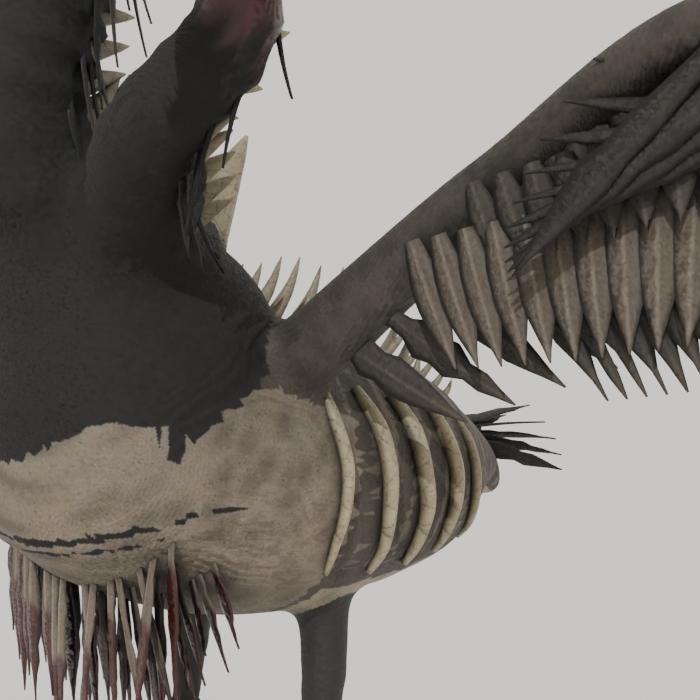
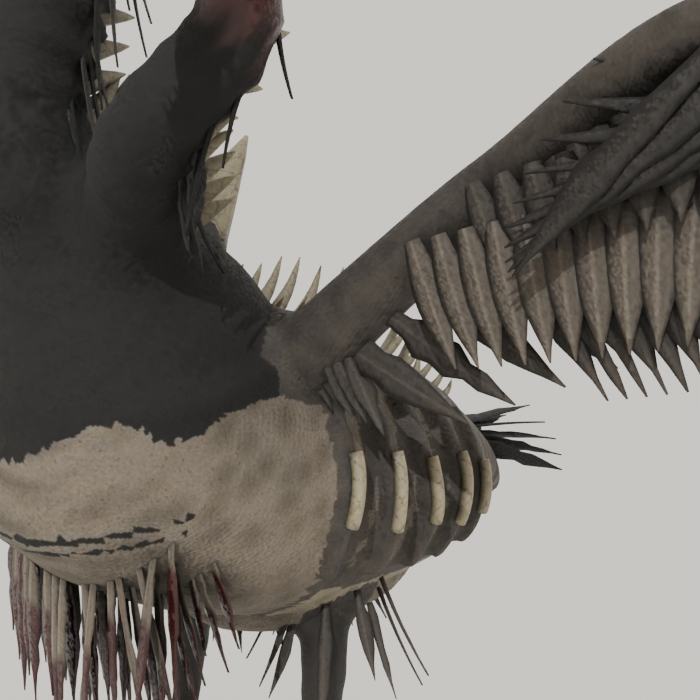
docs: goose v2 form renders, review sheet and docs
Refs #19, #30

Committed by AJ's agent

diff --git a/docs/art/reviews/goose-v2-form/render_form.py b/docs/art/reviews/goose-v2-form/render_form.py
@@ -1,0 +1,22 @@
+# Close-ups of the #19 form on the textured goose_v2, from the throwaway test's cameras.
+# usage: python3.11 render_form.py OUTDIR   (run from the repo root)
+import bpy, math, sys
+from mathutils import Vector
+out = sys.argv[-1]
+bpy.ops.wm.open_mainfile(filepath="art/goose/goose_v2.blend")
+sc = bpy.context.scene; sc.render.engine = "CYCLES"; sc.cycles.samples = 24; sc.cycles.device = "CPU"
+sc.render.resolution_x = sc.render.resolution_y = 700
+w = bpy.data.worlds.new("w"); sc.world = w; w.use_nodes = True
+w.node_tree.nodes["Background"].inputs[0].default_value = (0.9, 0.87, 0.8, 1)
+w.node_tree.nodes["Background"].inputs[1].default_value = 1.2
+sun = bpy.data.objects.new("sun", bpy.data.lights.new("sun", "SUN")); sc.collection.objects.link(sun)
+sun.rotation_euler = (math.radians(50), 0, math.radians(30)); sun.data.energy = 3
+cam = bpy.data.objects.new("cam", bpy.data.cameras.new("cam")); sc.collection.objects.link(cam); sc.camera = cam
+cam.data.lens = 50
+def shot(name, target, loc):
+    cam.location = Vector(loc); d = Vector(target) - cam.location
+    cam.rotation_euler = d.to_track_quat("-Z", "Y").to_euler()
+    sc.render.filepath = f"{out}/{name}.png"; bpy.ops.render.render(write_still=True)
+shot("chest_front", (0, -1.0, 2.4), (1.6, -5.6, 2.9))
+shot("flank_side", (0.3, 0.0, 1.9), (4.8, -0.6, 2.2))
+shot("hip", (0.5, 0.1, 1.3), (3.2, -2.4, 1.2))

diff --git a/docs/4-systems/goose-build.md b/docs/4-systems/goose-build.md
@@ -60,5 +60,14 @@ main neck and 12 on each side neck, each a ridge under the skin (strongest along
 bone spike tearing out of it, in place of version 1's 13 neck spikes. #21 rigs one bone per
 vertebra.
 
+Form (#19, design `docs/plans/2026-10-25-goose-v2-form.html`, approved 1B 2A): a `v2.design.form`
+block adds breast, shoulder and thigh muscle, a sagging belly and three folds at the neck root as
+parts marked `fuse`, which `build_goose.py --v2` melts into the skin alongside `v2.skin.parts`;
+`goose_skin.fuse` smooths only where the listed parts meet, so the muscle keeps its shape. With
+`v2.design.ribs`, `body_ribs` turns each rib into a fused ridge and lifts its middle third out as
+bare bone (`bone_lift`). `v2.design.legs.scutes` false drops the shank rings. The form block also
+adds 22 hackles at the neck root, 9 coverts per shoulder and 13 feathers per thigh, from its own
+random seed so the other parts' feathers do not change.
+
 Brand: `goose_texture.bake(..., version=)` takes its decal from that version's parts; version 2 sets
 `v2.design.maple.brand` to null, so its breast has no maple leaf and the brand shader step is skipped.

diff --git a/docs/3-state/ProjectState.md b/docs/3-state/ProjectState.md
@@ -29,8 +29,12 @@
   segmentation from behind (`docs/art/reviews/goose-v2-necks/`).
   aj liked the necks; on 2026-10-25 the maple leaf brand was removed from version 2 (1,093 parts,
   still 297,820 triangles; version 1 keeps its brand and rebuilds at 272,380).
-- #19, #20 and #21: not started; #19 has 2,180 triangles of headroom, so it has to trim elsewhere.
-  #21 now asks for one bone per vertebra (15 and 12).
+- #19 form (steps #29, #30): built on 2026-10-26, waits on aj's QA check. Muscle, a sagging belly,
+  neck-root folds, rib ridges with bare bone through the middle, no shank rings, and feathers over
+  the joins. `build_goose.py --v2` gives 1,169 parts, 299,188 triangles (812 under budget),
+  6.750 m, skin 1 piece. Close-ups: `docs/art/reviews/goose-v2-form/`. Under the stand-in colour
+  the chest muscle and folds read faintly and the black hackles blend into the black neck.
+- #20 and #21: not started; they must add no triangles. #21 asks for one bone per vertebra (15 and 12).
 
 ## The one thing that is not what it looks like
 

diff --git a/docs/5-today/Today.md b/docs/5-today/Today.md
@@ -1,3 +1,13 @@
+# Today — 2026-10-26
+
+**Done:** aj approved the goose v2 form design (1B 2A) and its build plan. Built #19 (#29, #30):
+299,188 triangles, skin 1 piece. The first rebuild buried the bare rib bone inside its ridge, so the
+bone is now lifted out mid-rib (`v2.design.ribs.bone_lift`).
+
+**Next, in order:** aj's QA check of #19; then #20 (textures) and #21 (the rig), adding no triangles.
+
+---
+
 # Today — 2026-10-25
 
 **Done:** removed the maple leaf brand from goose_v2's breast, after aj said it looked comical
